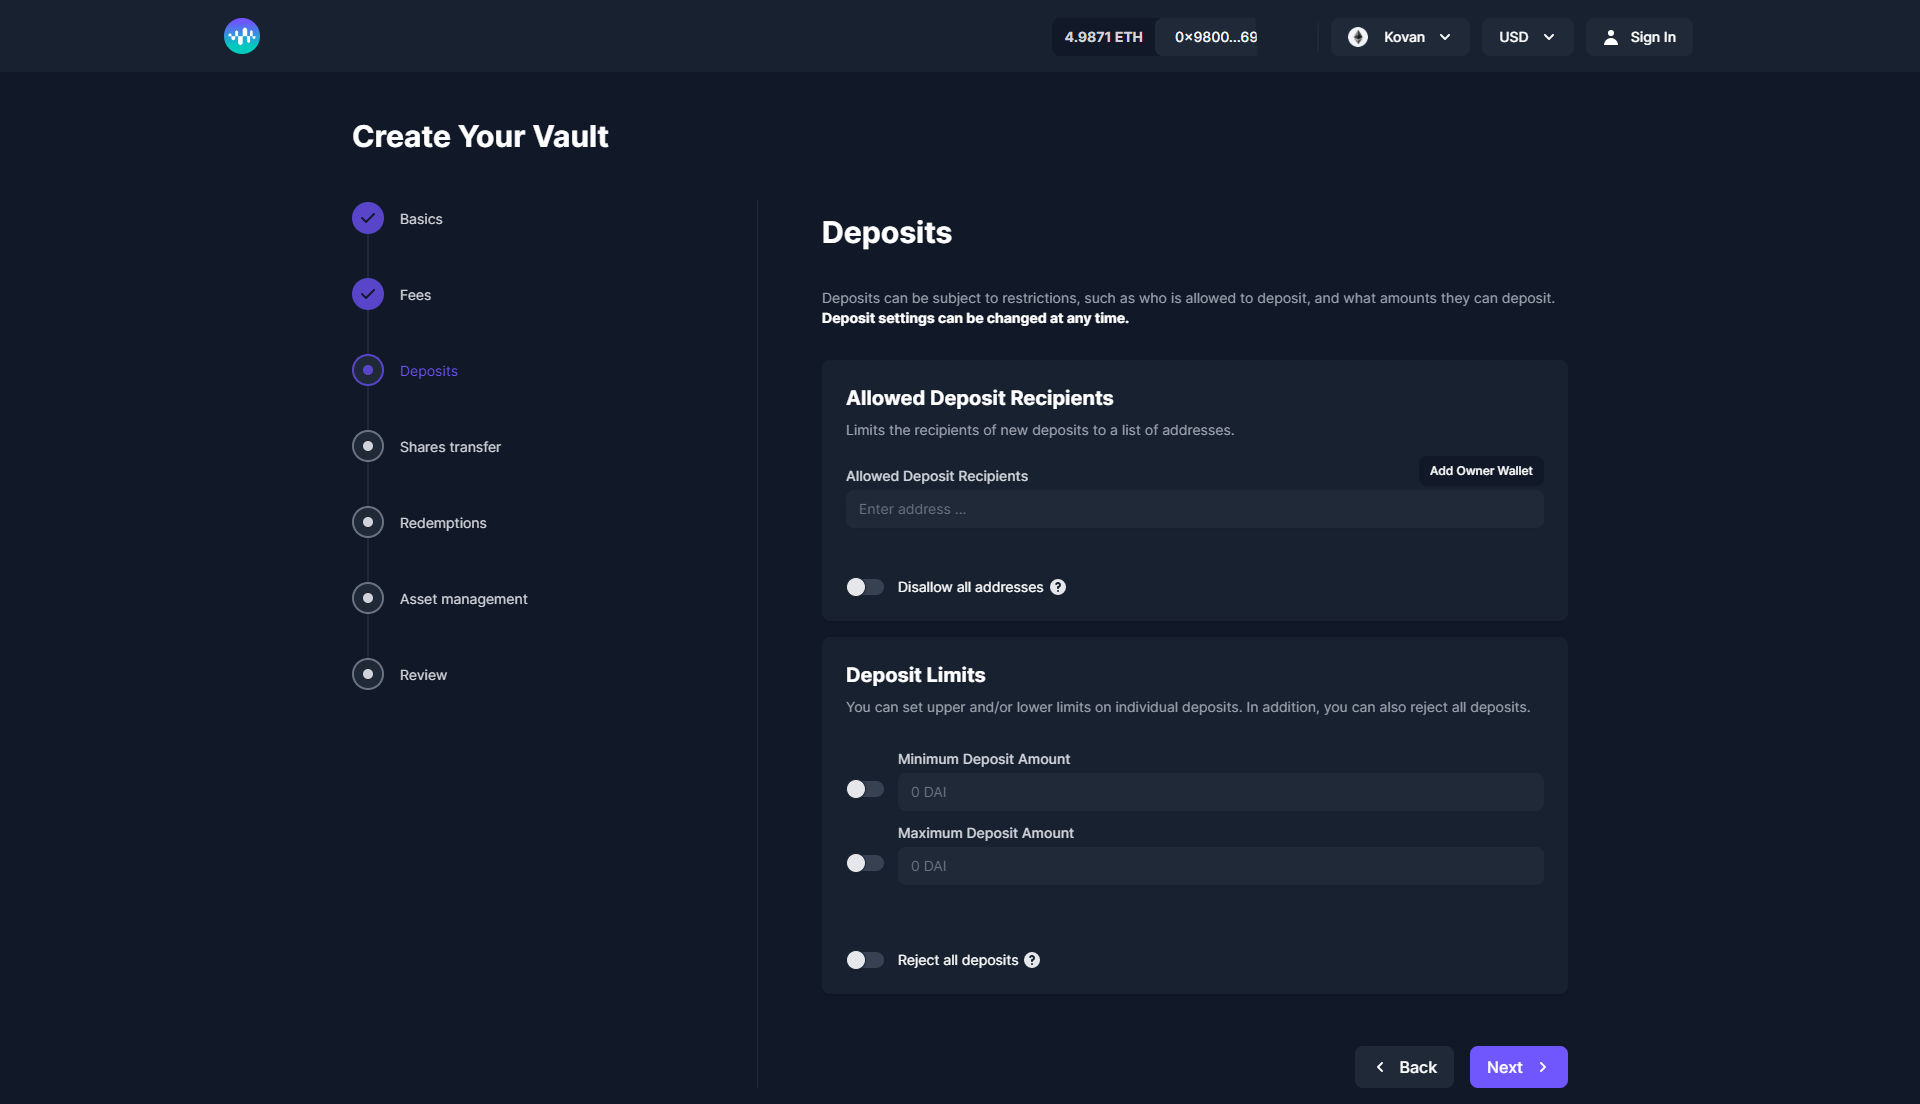
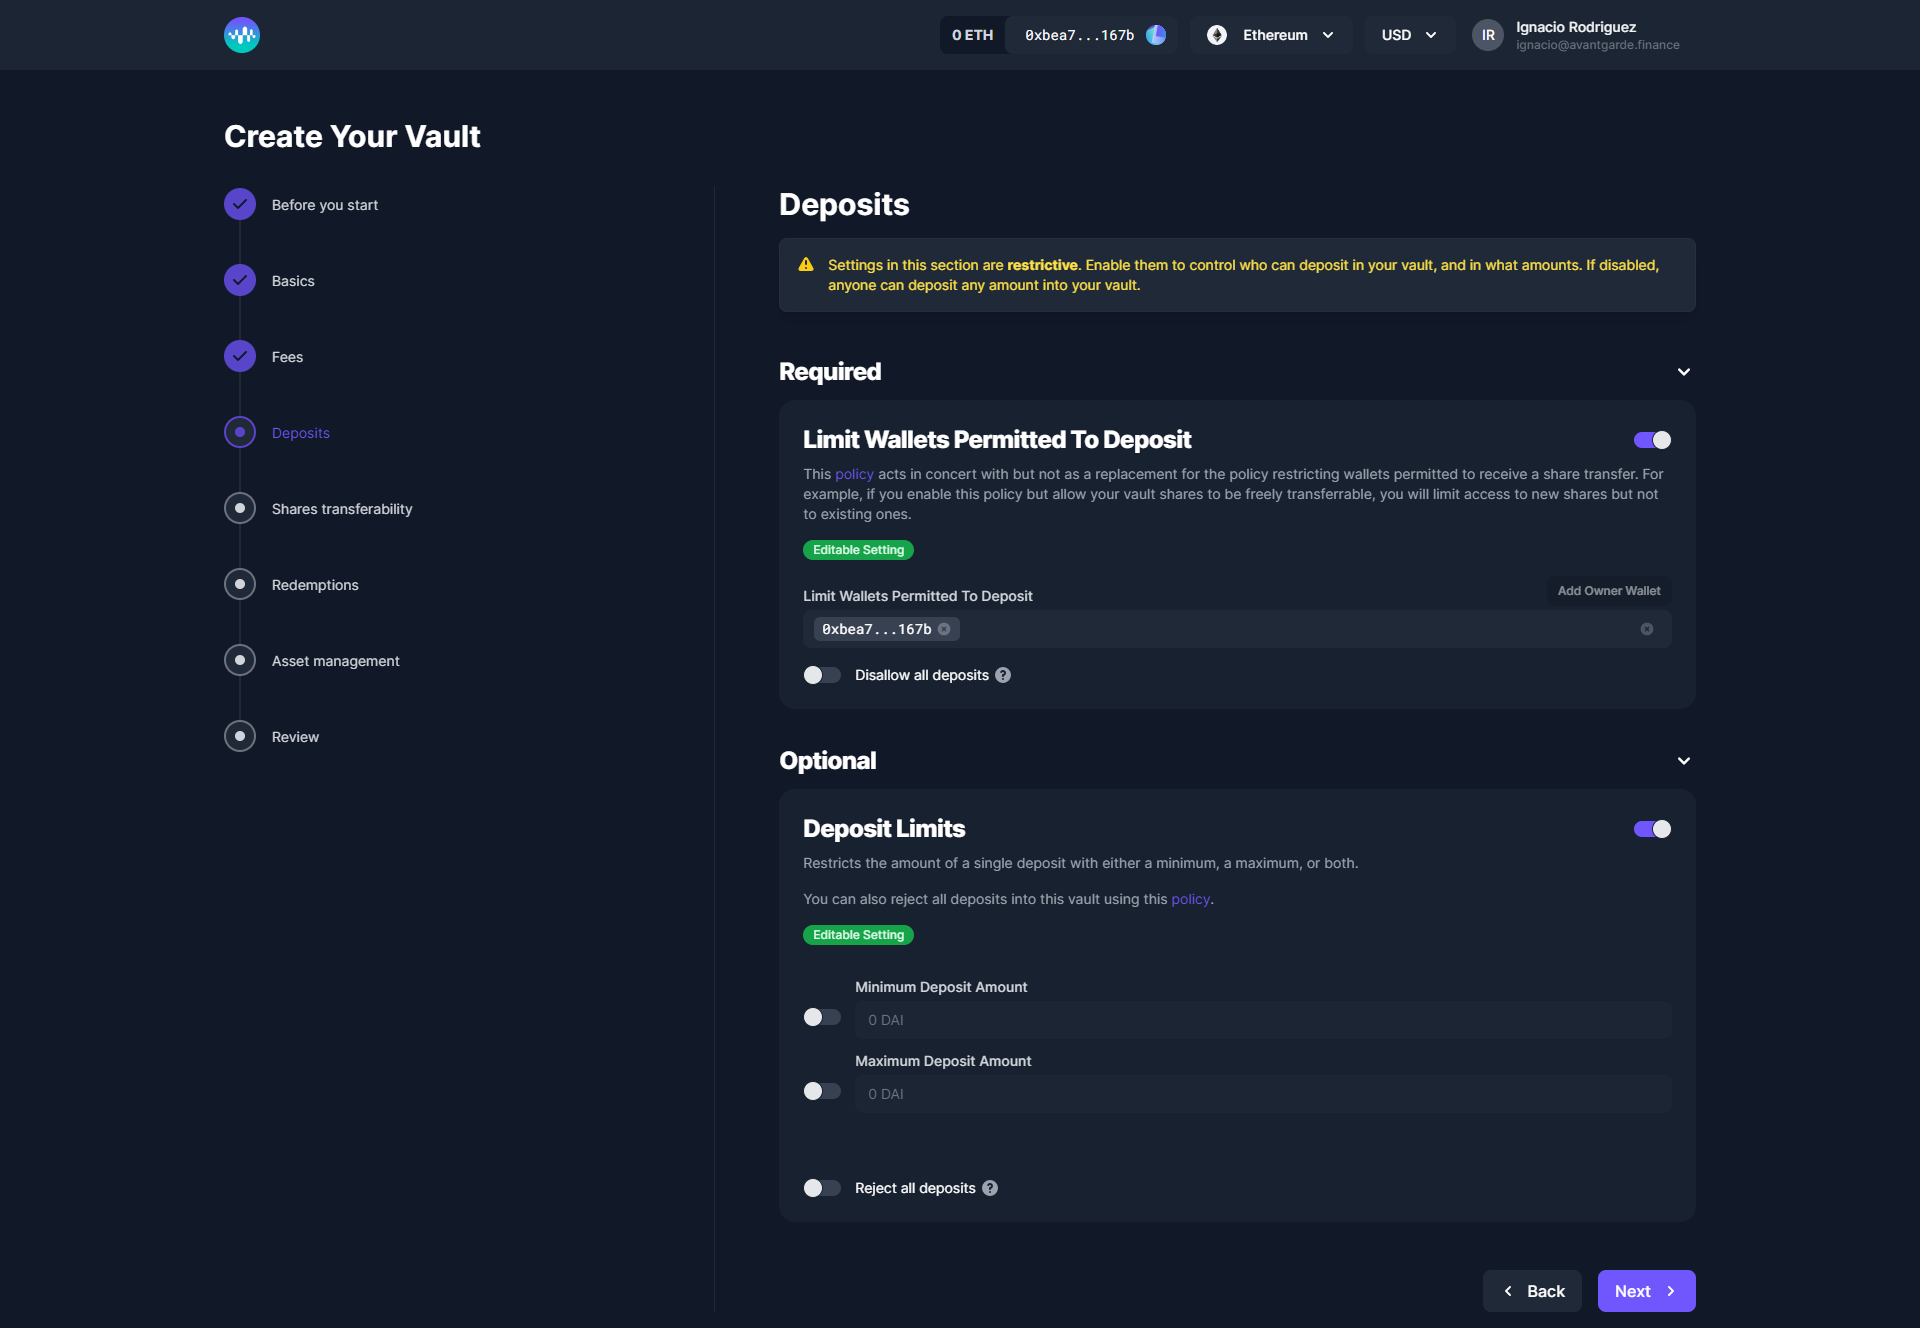
GitBook: [#95] No subject

diff --git a/managers/setup/redemptions.md b/managers/setup/redemptions.md
@@ -6,22 +6,23 @@ description: 'Setup: Step 5 (Redemptions settings can be changed after creation)
 
 Generally speaking, deposits to and redemptions from your Vault are possible 24/7 unless you add a policy that dictates otherwise. **Caveat:** Trading heavily on Synthetix or other similarly designed exchanges, and the use of external positions may occasionally make redemptions not possible because of their delayed settlement design. The Guaranteed Redemption Policy ensures that your Vault has a policy that restricts you from trading during a specific time period each day so that depositors know with certainty that they can redeem within this window. This is a recommended policy to have if you will be trading with Synthetix. If you have any questions about using this policy, come and [discuss](https://t.me/enzymefinance) them with us.
 
-![](<../../.gitbook/assets/image (43).png>)
+![](<../../.gitbook/assets/redemptions (1).png>)
 
-## **Shares Lockup**
+## **Restrict Assets For Redemption**
 
-Defines the amount of time that must pass from the time a user deposits until they’re allowed to either redeem or transfer any shares. This is arbitrage protection, and funds that have untrusted depositors should use a non-zero value. We recommend 24 hours.
+Restricts the assets for which a depositor may redeem their vault shares. If this [policy](https://docs.enzyme.finance/managers/setup/redemptions) is not enabled, depositors may redeem their shares in-kind or in any arbitrary combination of assets held by your vault. There are two common implementations of this policy to control how your depositors can redeem their shares:
 
-## **Allowed Assets For Redemption**
+1. To limit depositors' redemption options to **in-kind** or **specific-asset** redemptions where you control which assets are available, toggle this policy on and add assets to the list. Note that if you use this implementation, your depositors can materially change the composition of your portfolio without notice. Implementing an accompanying Single Asset Redemption Threshold (below) can mitigate this risk.
+2. To limit depositors' redemption options to **in-kind** only, toggle this policy on, toggle 'Only allow in-kind redemption' on, and leave the list of assets empty.
 
-This enables a vault's depositors to redeem their shares in a single asset. You can define the asset(s) that are allowed to be included in specific asset redemption.
-
-## **Single Asset Redemption Threshold**
+## **Specific Asset Redemption Threshold**
 
 Restricts the value of a single-asset redemption by setting a minimum balance of that asset that the vault must maintain post-withdrawal. Single-asset withdrawals that would reduce the vault's balance below this level will be rejected. Note that the depositor can still redeem their shares by withdrawing their pro rata share of the vault's holdings.
 
-## **Guaranteed Redemption Period**
+## **Shares Lockup-Up Period**
 
-This policy ensures that the vault will have a fixed daily time period during which depositors will be able to freely withdraw their shares or deposit more. During that period, the vault cannot trade on Synthetix which makes the guarantee possible.
+Defines the amount of time that must pass from the time a user deposits until they’re allowed to either redeem or transfer any shares. This is arbitrage protection, and funds that have untrusted depositors should use a non-zero value. Depending on the trust level between the Depositors and the vault Manager, we recommend at least a 24 hours lock-up period.
+
+****
 
 ****

diff --git a/managers/setup/advanced-settings.md b/managers/setup/advanced-settings.md
@@ -2,21 +2,21 @@
 description: 'Setup: Step 6 (Asset Management settings can be changed after creation)'
 ---
 
-# Asset Management Policies
+# Asset Management
 
 Vault Managers can specify policies that restrict the behaviour in a vault to reassure stakeholders.&#x20;
 
-![](<../../.gitbook/assets/image (38).png>)
+![](<../../.gitbook/assets/Asset Managment.png>)
 
-## **Allowed Adapters**
+## **Limit Adapters To A Specific List**
 
-Adapters connect your vault to DeFi protocols that allow you to trade, lend, borrow, supply liquidity, et cetera. Selecting “allowed adapters” means that your vault will only be able to interact with adapters on this list.&#x20;
+Adapters connect your vault to DeFi protocols that allow you to trade, lend, borrow, supply liquidity, Stake, etcetera. Enebling this policy means that your vault will only be able to interact with adapters on this list.&#x20;
 
-## Allowed External Position Types
+## Limit External Positions To A Specified List
 
-An external position type is a new type of position which has been introduced with Sulu. They are similar to adapters in that they allow you to interact with external DeFi protocols. However, they differ in that they are not represented by a liquid, divisible, fungible token (eg. Compound CDPs or Uniswap v3 LP positions). This policy defines which external position “types” can be used. [See risks & nuances section](https://userdocs.enzyme.finance/risks).
+An external position type is a new type of position which has been introduced with Sulu. They are similar to adapters in that they allow you to interact with external DeFi protocols. However, they differ in that they are not represented by a liquid, divisible, fungible token (eg. Compound CDPs or Uniswap v3 LP positions, Maple Lending, Aave Borrowing and Convex Voting). This policy defines which external position “types” can the vault interact with. [See risks & nuances section](https://userdocs.enzyme.finance/risks). Enabling this policy means that your vault will only be able to interact with external positions on this list.&#x20;
 
-## **Cumulative Slippage Tolerance**
+## **Set Cumulative Slippage Tolerance**
 
 This policy is designed to limit any maliciously deliberate attempts or accidental actions which could drain a vault causing a large loss.&#x20;
 
@@ -24,10 +24,10 @@ It does this by limiting the value loss (i.e. slippage) that can occur via adapt
 
 Vaults define a tolerance threshold (e.g., 5%, 10%, etc). Whenever an adapter action results in slippage, that slippage amount is added to a cumulative slippage total. The accumulated slippage then diminishes over the “tolerance period duration” at a constant rate based on the fund’s chosen tolerance. This policy allows bypassing the slippage checks entirely if the adapter being called is in a Council-maintained list on the AddressListRegistry (adapters that cannot be manipulated by asset managers to steal fund value).&#x20;
 
-## External Position Removal
+## Restrict External Position Removal
 
 Prevents the removal of an external position from the vault’s accounting unless its value can be considered negligible (i.e. dust). The dust threshold is maintained by the Enzyme Council.&#x20;
 
-## Asset Position Removal
+## Restrict Asset Position Removal
 
 Prevents the removal of an external position from the vault's accounting unless a) it does not have a valid price, or b) its value can be considered negligible (i.e. dust). The dust threshold is maintained by the Enzyme Council.

diff --git a/managers/setup/vault-types.md b/managers/setup/vault-types.md
@@ -4,23 +4,21 @@ In this release, we have introduced different vault types, with different preset
 
 Different vaults are created for different purposes with different trust relationships, thus we have pre-configured policies to easily create vaults without going through each individual policy.
 
-![](<../../.gitbook/assets/vault types.png>)
+![](../../.gitbook/assets/screencapture-app-enzyme-finance-vault-create-2022-06-30-09\_49\_56.png)
 
-### Public Vault - Trusted Vault Owner
+### Public Vault&#x20;
 
-This vault requires Depositors to trust in the Vault Owner.  Usually this will be a known party and legal documents might be involved.
+This vault requires Depositors to trust in the Vault Owner.  Usually, this will be a known party and legal documents might be involved.
 
 ### Private Vault
 
-This is a vault with full trust, where Depositors trust the Vault Owner and vice versa. Typically there will be an "allowed depositer" list on this type of vault, possibly a KYC and likely some legal documents to define the relationship.
+This is a vault with full trust, where Depositors trust the Vault Owner and vice versa. Typically there will be an "allowed depositor" list on this type of vault, possibly a KYC and likely some legal documents to define the relationship.
 
-### Public Vault - Trustless
+### Hybrid Vault
 
-In this vault, trust does not need to exist between Depositors and the Vault Owner. The contract configurations should be enough to protect investors from malicious behaviour and vica-versa. Certain activities or features might not be allowed from this type of vault.
+In this vault, trust does not necessarly need to exist between Depositors and the Vault Owner. You are known by your depositors but not necessarly vice versa.
 
-### Start From Scratch
-
-If you chose this option, we will not be suggesting any pre-set policy configuration so you can explore the policies and customize your vault to what you need.
+###
 
 
 

diff --git a/managers/setup/investments.md b/managers/setup/investments.md
@@ -4,15 +4,15 @@ description: 'Setup: Step 3 (Deposits settings can be changed after creation)'
 
 # Deposits
 
-The configurations listed below are all **optional**. They limit who can deposit into your Vault, and how much they can deposit.&#x20;
+The configurations listed below are **optional** depending on the vault type you have previously selected. They limit who can deposit into your Vault, and how much they can deposit.&#x20;
 
-![](<../../.gitbook/assets/image (39).png>)
+![](../../.gitbook/assets/deposits.png)
 
 {% hint style="danger" %}
 Note that in the screenshot, all deposit configurations are toggled on for display purposes. If you do not plan to restrict investments using these configurations, make sure they are toggled off.
 {% endhint %}
 
-### **Wallets Permitted to Make Deposits**
+### **Limit Wallets Permitted To Deposit**
 
 Limits new deposits to a list of addresses. Please note that once a list has been added, will only be able to add or remove new addresses to/from that list. You will not be able to delete the list.&#x20;
 

diff --git a/managers/setup/fund-basics.md b/managers/setup/fund-basics.md
@@ -22,4 +22,5 @@ The denomination asset is the base asset of your Vault. There are several implic
 
 * **Performance Fees**[**\***](fees.md)**:** It is the asset that your Vault's **performance fee** will be benchmarked and calculated against.&#x20;
 * **Deploying capital:** It is the asset that will be received from subscribers to your Vault and therefore the asset that will be held by the product's portfolio before you deploy it.&#x20;
-* **Synthetix:** If you plan to use Synthetix heavily, you will need sUSD or sETH to enter in and out of most synth positions. It likely makes sense for you to denominate your product in sUSD for simplicity, security and lower costs ([see risks & nuances section](https://userdocs.enzyme.finance/risks)).
+
+****

diff --git a/managers/setup/share-transfers.md b/managers/setup/share-transfers.md
@@ -6,8 +6,8 @@ description: 'Setup: Step 4 (Share Transfers settings can be changed after creat
 
 Share Transfers can be subject to restrictions, such as limiting which wallets can receive transferred shares.
 
-![](<../../.gitbook/assets/image (40).png>)
+![](../../.gitbook/assets/sharestransfers.png)
 
-### Wallets Permitted to Receive a Share Transfer
+### Restrict Wallets Permitted To Receive A Share Transfer
 
 Here you can specify addresses to which your vault's shares can be transferred. By default, if this setting is enabled the owner address is always listed. If this setting is toggled off, shares can be transferred freely and used throughout the DeFi ecosystem.&#x20;

diff --git a/managers/setup/fees.md b/managers/setup/fees.md
@@ -36,7 +36,7 @@ The crystallisation period is a parameter which can be set by the Vault Manager 
 
 An additional entrance fee can be charged to subscribers by the Vault Manager. This can be defined as a percentage of the total investment and can be configured to be paid to the Vault itself or directly to the Vault Manager.
 
-## Exit Fee
+### Exit Fee
 
 In this release, we introduced the option to set up an exit fee, which is charged with every [redemption](redemptions.md). The fee can be set up to be routed to either the Vault or to the Vault Manager.
 

diff --git a/SUMMARY.md b/SUMMARY.md
@@ -17,7 +17,7 @@
   * [Deposits](managers/setup/investments.md)
   * [Share Transfers](managers/setup/share-transfers.md)
   * [Redemptions](managers/setup/redemptions.md)
-  * [Asset Management Policies](managers/setup/advanced-settings.md)
+  * [Asset Management](managers/setup/advanced-settings.md)
   * [Review](managers/setup/confirm-and-seed.md)
   * [Seed](managers/setup/seed.md)
 * [Customise Vault Settings](managers/customise-your-settings.md)
